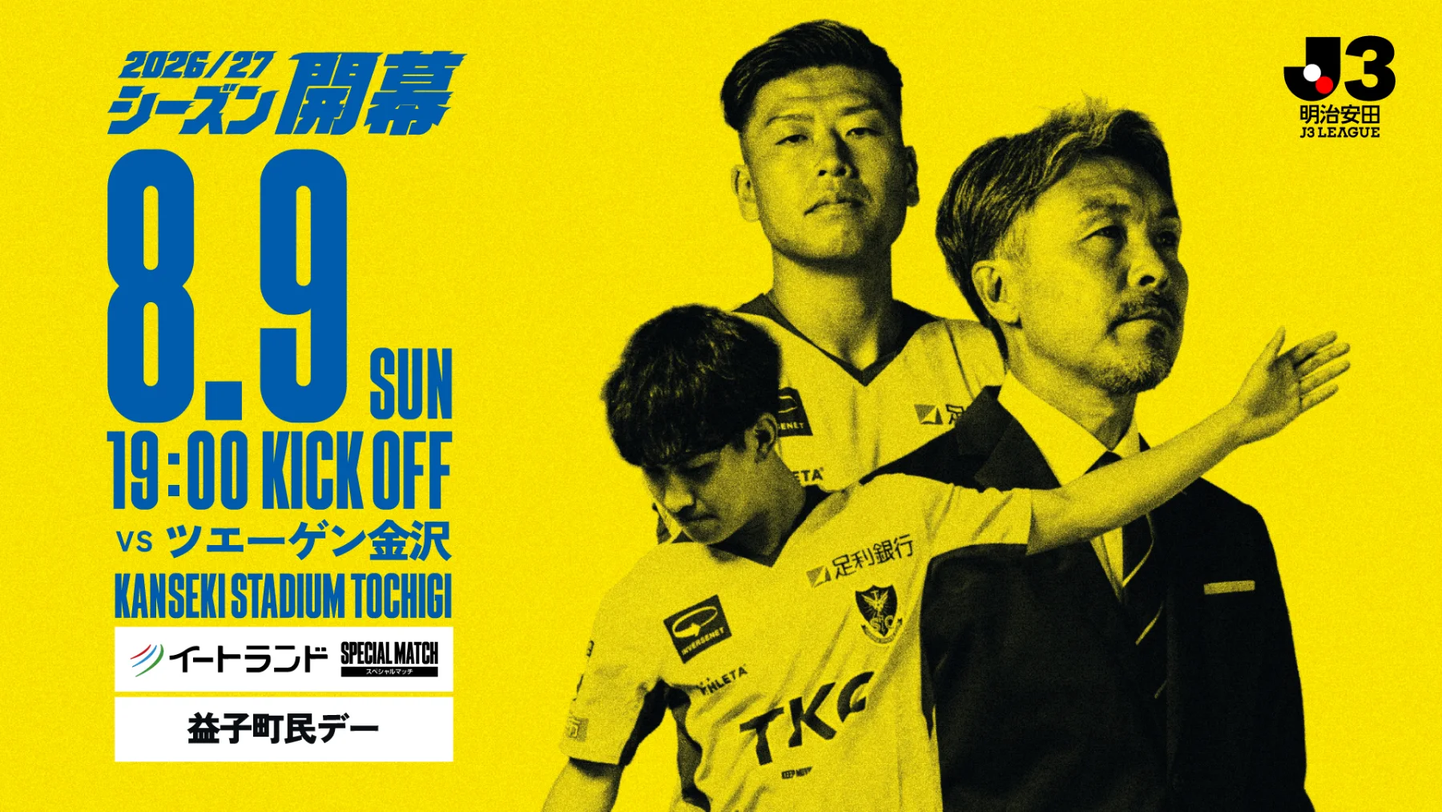
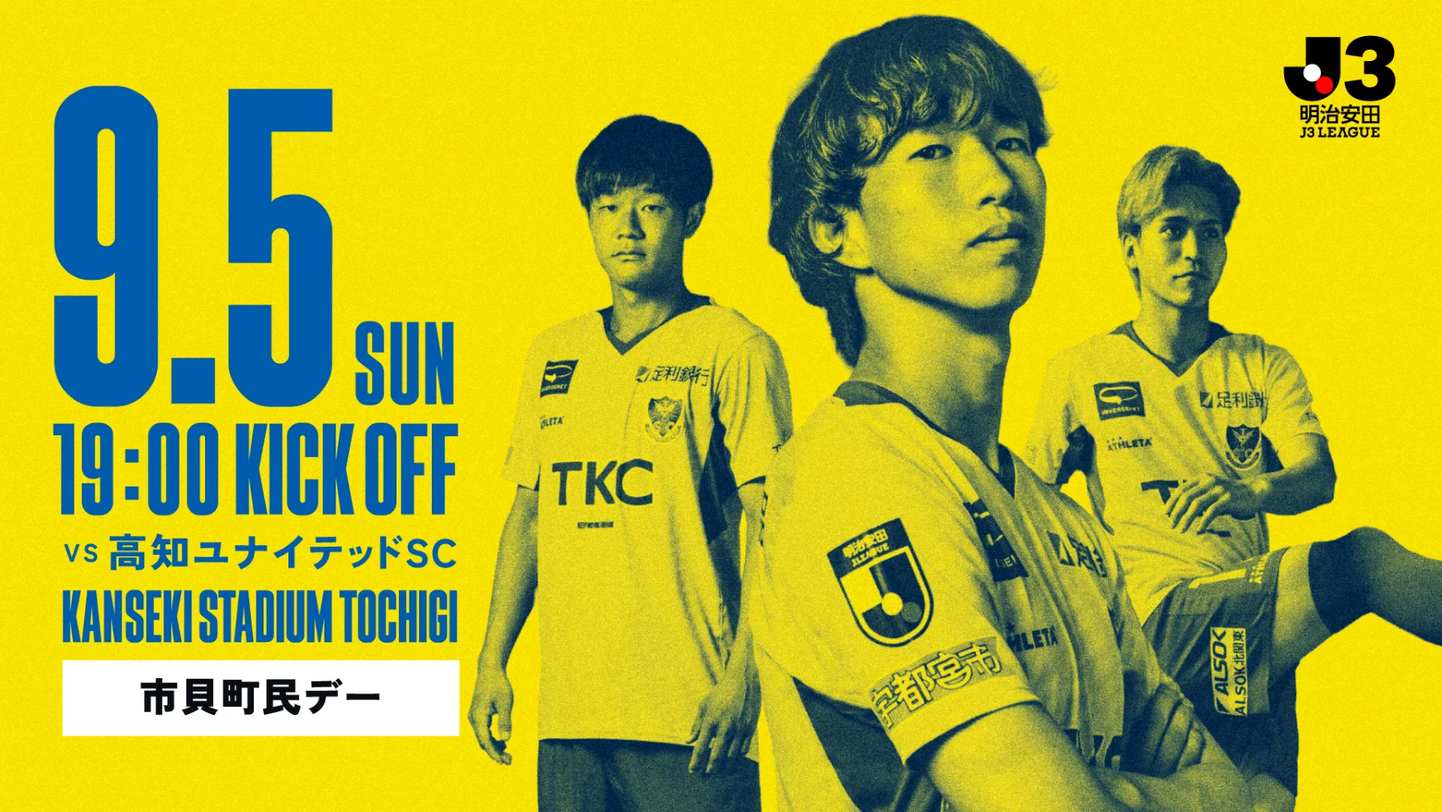
Add files via upload

diff --git a/check/index.html b/check/index.html
@@ -14,7 +14,7 @@ if(location.hostname.endsWith('github.io')){
 }
 </script>
 <meta name="viewport" content="width=device-width, initial-scale=1.0">
-<title>栃木SC ホームゲームLP ｜ 8/9 ツエーゲン金沢戦</title>
+<title>栃木SC ホームゲームLP ｜ 9/5 高知ユナイテッドSC戦</title>
 <link rel="icon" type="image/png" href="assets/img/favicon.png">
 <link rel="apple-touch-icon" href="assets/img/appleTouchIcon.png">
 <link rel="preconnect" href="https://fonts.googleapis.com">
@@ -526,14 +526,14 @@ if(location.hostname.endsWith('github.io')){
     <!-- MATCH CARD -->
   <div class="match">
     <div class="mt-meta">
-      <div class="mt-league">2026/27 明治安田J3リーグ 第1節</div>
+      <div class="mt-league">2026/27 明治安田J3リーグ 第5節</div>
       <div class="mt-ko">19:00 KICK OFF</div>
       <div class="mt-ven">カンセキスタジアムとちぎ</div>
     </div>
     <div class="teams">
       <div class="team"><div class="em" style="background-image:var(--tsc);background-size:116%;background-repeat:no-repeat;background-position:center"></div><div class="nm">栃木SC</div><div class="role">HOME</div></div>
       <div class="vs">VS</div>
-      <div class="team"><div class="em" style="background-image:var(--opp);background-size:contain;background-repeat:no-repeat;background-position:center"></div><div class="nm" style="white-space:nowrap;font-size:min(18px,calc((100vw - 87px)*0.0658))">ツエーゲン金沢</div><div class="role">VISITOR</div></div>
+      <div class="team"><div class="em" style="background-image:var(--opp);background-size:contain;background-repeat:no-repeat;background-position:center"></div><div class="nm" style="white-space:nowrap;font-size:min(18px,calc((100vw - 87px)*0.0500))">高知ユナイテッドSC</div><div class="role">VISITOR</div></div>
     </div>
   </div>
 
@@ -557,30 +557,24 @@ if(location.hostname.endsWith('github.io')){
   </div>
 
   <!-- スペシャルイベント -->
-  <section class="special band-white"><div class="head"><span class="hicon"><svg viewBox="0 0 24 24"><path d="M4 8h16v11a1 1 0 0 1-1 1H5a1 1 0 0 1-1-1z"/><path d="M4 8l2-4h12l2 4"/><path d="M9 12h6"/></svg></span><span class="disp">SPECIAL EVENT</span><h2><span class="mk">スペシャルイベント</span></h2></div><div class="sp-stack"><div class="sp-card"><div class="sp-photo np" data-lz style="background-image:url(assets/img/spPokemon.webp)"></div><div class="sp-body"><h3 class="sp-h">“ポケモンＪリーグフェス”開催決定！</h3><p class="sp-lead">EVO BAG（環境配慮型エコバッグ）を先着8,000名様にプレゼント！</p><p>8月9日（日）ツエーゲン金沢戦にて開催。ピカチュウとクラブパートナーポケモン「ゴウカザル」がデザインされたEVO BAGを、入場ゲートで先着8,000名様にプレゼントします。オリジナルグッズ販売やイベントも予定（決まり次第お知らせ）。</p><div class="sp-terms"><div><b>配布数量</b>：先着8,000個</div><div><b>配布対象</b>：観戦チケットをお持ちの方（ビジターゲート入場者を除く）</div><div><b>配布場所</b>：Aゲート・Cゲート（ビジターゲートを除く）</div></div><a class="sp-link" href="https://tochigisc.jp/news/1819" target="_blank" rel="noopener">詳細はこちら ›</a></div></div><div class="sp-card"><div class="sp-photo np" data-lz style="background-image:url(assets/img/spSub6.webp)"></div><div class="sp-body"><h3 class="sp-h">益子町抽選会を実施！</h3><p class="sp-lead">栃木ＳＣのグッズなどが当たる無料抽選会を実施します！</p><div class="sp-terms"><div><b>抽選券配布場所</b>：A・Cゲート</div><div><b>抽選券配布時間</b>：16:30～</div><div><b>抽選券配布枚数</b>：1,000枚（なくなり次第終了）</div><div><b>景品受取場所</b>：益子町ブース（アプローチデッキ）</div><div><b>景品受取時間</b>：ハーフタイムまで</div></div></div></div><div class="sp-card"><div class="sp-photo np" data-lz style="background-image:url(assets/img/sp_11.webp)"></div><div class="sp-body"><h3 class="sp-h">夏祭りグルメが盛りだくさん！</h3><p>夏祭りを楽しむのにぴったりなグルメが盛りだくさん！<br>
-食べて飲んで夏を楽しもう！</p><div class="sp-terms"><div><b>営業時間</b></div><div><b>場外エリア</b>：15:30～試合終了まで </div><div><b>場内エリア</b>：16:30～試合終了まで</div></div><a class="sp-link" href="<a href=“gourmet.html”>グルメ</a>" target="_blank" rel="noopener">詳細はこちら ›</a></div></div></div></section>
+  <section class="special band-white"><div class="head"><span class="hicon"><svg viewBox="0 0 24 24"><path d="M4 8h16v11a1 1 0 0 1-1 1H5a1 1 0 0 1-1-1z"/><path d="M4 8l2-4h12l2 4"/><path d="M9 12h6"/></svg></span><span class="disp">SPECIAL EVENT</span><h2><span class="mk">スペシャルイベント</span></h2></div><div class="sp-stack"><div class="sp-card"><div class="sp-photo np" data-lz style="background-image:url(assets/img/sp_13.webp)"></div><div class="sp-body"><h3 class="sp-h">「栃木ＳＣ夏祭り」開催！</h3><p>スタジアムが夏祭り会場に！友達や家族と一緒に、みんなで夏を楽しもう。<br>場所：カンセキスタジアム アプローチデッキ</p><div class="sp-terms"><div>時間：16:00～19:00<br>場所：アプローチデッキ</div></div><a class="sp-link" href="https://www.tochigisc.jp/news/1842" target="_blank" rel="noopener">詳細はこちら ›</a></div></div><div class="sp-card"><div class="sp-photo np" data-lz style="background-image:url(assets/img/sp_14.webp)"></div><div class="sp-body"><h3 class="sp-h">ハーフタイムを彩る「打ち上げ花火」！</h3><p class="sp-lead">時間：ハーフタイム<br>場所：スタジアム北西方面</p><p>「打ち上げ花火  Presented by 高徳花火工場」を実施！<br><br>スタジアムの観客席から見上げる花火は、この時期ならではの特別な体験となります！<br>夏の終わりの素敵なひとときをスタジアムでお楽しみください！</p></div></div><div class="sp-card"><div class="sp-photo np" data-lz style="background-image:url(assets/img/spSub1.webp)"></div><div class="sp-body"><h3 class="sp-h">スタミナグルメ</h3><p class="sp-lead">暑さに負けるな！</p><p>残暑が厳しい時季
+スタミナをつけて応援に備えよう！</p></div></div></div></section>
 
   <div class="sec-div" aria-hidden="true"></div>
     <!-- イベント -->
   <section class="band-sec band-white" id="event">
     <div class="head"><span class="hicon"><svg viewBox="0 0 24 24"><path d="M4 8h16v11a1 1 0 0 1-1 1H5a1 1 0 0 1-1-1z"/><path d="M4 8l2-4h12l2 4"/><path d="M9 12h6"/></svg></span><span class="disp">EVENT</span><h2><span class="mk">イベント</span></h2></div>
     
-    <div class="dots"><i class="on"></i><i></i><i></i><i></i><i></i><i></i><i></i></div>
-    <div class="rail"><div class="card"><div class="ph lb-img" data-lz style="background-image:url(assets/img/evNatsu.webp);background-size:contain;background-position:center;background-repeat:no-repeat;background-color:#fff"></div><div class="cb"><h4>「栃木ＳＣ夏祭り」開催！</h4><div class="meta">時間：16:00～19:00<br>場所：アプローチデッキ</div><div class="ev-desc">スタジアムが夏祭り会場に！友達や家族と一緒に、みんなで夏を楽しもう。<br>場所：カンセキスタジアム アプローチデッキ</div><a class="sp-link" href="https://www.tochigisc.jp/news/1842" target="_blank" rel="noopener">詳細はこちら ›</a></div></div><div class="card"><div class="ph lb-img" data-lz style="background-image:url(assets/img/evMizu.webp);background-size:contain;background-position:center;background-repeat:no-repeat;background-color:#fff"></div><div class="cb"><h4>「真夏のワクワク水鉄砲合戦」開催！</h4><div class="meta">時間：16:00〜17:00<br>場所：投てき場＜カンセキスタジアム隣接＞</div><div class="ev-desc">大人から子どもまで全力で楽しめる水鉄砲バトル！<br>場所：投てき場（カンセキスタジアム隣接）<br>※定員に達したため、申込終了となります。</div><a class="sp-link" href="https://www.tochigisc.jp/news/1830" target="_blank" rel="noopener">詳細はこちら ›</a></div></div><div class="card"><div class="ph lb-img" data-lz style="background-image:url(assets/img/evYosakoi.webp);background-size:contain;background-position:center;background-repeat:no-repeat;background-color:#fff"></div><div class="cb"><h4>オープニングパフォーマンス“勢や”</h4><div class="meta">時間：選手入場前 <br>場所：ピッチ</div><div class="ev-desc">YOSAKOIソーランチーム“勢や”がオープニングパフォーマンスをおこないます！<br>※時間・場所は急遽変更になる場合があります。</div></div></div><div class="card"><div class="ph lb-img" data-lz style="background-image:url(assets/img/ev_2.webp);background-size:contain;background-position:center;background-repeat:no-repeat;background-color:#fff"></div><div class="cb"><h4>DJ NECOパフォーマンス</h4><div class="meta">場所：スタジアム場内</div><div class="ev-desc">DJ NECOがパフォーマンスでスタジアムを盛り上げていただきます♩ぜひご注目ください！！！</div></div></div><div class="card"><div class="ph lb-img" data-lz style="background-image:url(assets/img/evSub8.webp);background-size:contain;background-position:center;background-repeat:no-repeat;background-color:#fff"></div><div class="cb"><h4>益子天人疾風の会太鼓演奏</h4><div class="meta">時間：17:00～17:20<br>場所：メイン側ピッチ<br> </div><div class="ev-desc">益子で活動する和太鼓団体「益子天人疾風の会（ましこてんじんかぜのかい）」によるパフォーマンスを披露！
-<br>
-<br>＜太鼓演奏も実施！＞
-<br>実施時間：16:00-16:30（集合：15:45益子町ブース）
-<br>実施場所：メインピッチ
-<br>内　　容：先着20名（益子町ブース）</div></div></div><div class="card"><div class="ph lb-img" data-lz style="background-image:url(assets/img/evSub7.webp);background-size:contain;background-position:center;background-repeat:no-repeat;background-color:#fff"></div><div class="cb"><h4>「陶芸の森 長谷川陶苑」てびねり体験ブース</h4><div class="meta">時間：16:00～19:00<br>場所：アプローチデッキ<br>人数：高校生以下先着20名※参加費無料<br>受付方法：15:30～より陶芸の森長谷川陶苑体験ブースにて先着申込</div><div class="ev-desc">粘土の固まりを好きな形に形成できます！置物や飾り品、ロクロでは作れない四角いお皿やカップ、さらには表札や貯金箱などにもチャレンジしよう！<br>※作品は窯元で焼き上げてからのお渡しになるので、約１ヵ月後にご自宅に郵送となります。<br><br>【協力】<br>陶芸の森　長谷川陶苑</div></div></div><div class="card"><div class="ph lb-img" data-lz style="background-image:url(assets/img/ev_12.webp);background-size:contain;background-position:center;background-repeat:no-repeat;background-color:#fff"></div><div class="cb"><h4>「Waibiブースイベント」開催！！</h4><div class="meta">時間：16:00～なくなり次第終了<br>場所：アプローチデッキ Waibiブース<br>※15:00～よりWaibiブースにて各整理券配布</div><div class="ev-desc"><br>
-≪大人気！カブトムシつかみ取り≫、≪サイン入りグッズくじ≫≪限定コラボグッズ販売≫など楽しいブースが盛りだくさん！！<br>盛り上がる夏を一緒に楽しもう！</div><a class="sp-link" href="https://www.tochigisc.jp/news/1882" target="_blank" rel="noopener">詳細はこちら ›</a></div></div></div>
+    
+    <div class="rail"></div>
   </section>
 
   <!-- グルメ -->
   <section class="band-sec band-soft" id="gourmet">
     <div class="head"><span class="hicon"><svg viewBox="0 0 24 24"><path d="M6 3v7a2 2 0 0 0 4 0V3M8 10v11"/><path d="M16 3c-1.5 0-2.5 2-2.5 4.5S14.5 12 16 12v9"/></svg></span><span class="disp">STADIUM GOURMET</span><h2><span class="mk">グルメ</span></h2><span class="subbrand">BISTRO TOCKEY</span></div>
     <div class="dots"><i class="on"></i><i></i><i></i><i></i></div>
-    <div class="rail"><div class="card"><div class="ph lb-img" data-lz style="background-image:url(assets/img/goKezu.webp);background-size:contain;background-position:center;background-repeat:no-repeat;background-color:#fff"></div><div class="cb"><h4>けずりん（フローズンフルーツ）</h4><div class="meta"><span class="shop">けずりん</span><span class="price">¥700</span><span class="desc">苺たっぷりのひんやりフローズンフルーツ。</span></div></div></div><div class="card"><div class="ph lb-img" data-lz style="background-image:url(assets/img/goDaji.webp);background-size:contain;background-position:center;background-repeat:no-repeat;background-color:#fff"></div><div class="cb"><h4>ダージーパイ</h4><div class="meta"><span class="shop">O.N.Y</span><span class="price">¥750</span><span class="desc">サクサク食感の特大フライドチキン。</span></div></div></div><div class="card"><div class="ph lb-img" data-lz style="background-image:url(assets/img/goTapi.webp);background-size:contain;background-position:center;background-repeat:no-repeat;background-color:#fff"></div><div class="cb"><h4>タピオカドリンク</h4><div class="meta"><span class="shop">会茶</span><span class="price">¥750</span><span class="desc">もちもちタピオカ入りドリンク。</span></div></div></div><div class="card"><div class="ph lb-img" data-lz style="background-image:url(assets/img/goTama.webp);background-size:contain;background-position:center;background-repeat:no-repeat;background-color:#fff"></div><div class="cb"><h4>玉子焼き</h4><div class="meta"><span class="shop">玉子屋てっちゃん</span><span class="price">¥700</span><span class="desc">ふんわり焼き上げた玉子焼き。</span></div></div></div></div>
-    <div class="sec-news"><p class="sn-lead">当日のグルメ情報満載！</p><a href="<a href=“gourmet.html”>グルメ</a>" target="_blank" rel="noopener">グルメ情報をもっと見る <span class="arw">›</span></a></div>
+    <div class="rail"><div class="card"><div class="ph lb-img" data-lz style="background-image:url(assets/img/goSub2.webp);background-size:contain;background-position:center;background-repeat:no-repeat;background-color:#fff"></div><div class="cb"><h4>ブラジル丼</h4><div class="meta"><span class="shop">ダネイデ</span><span class="price">¥1,000</span><span class="desc">チキンカツ、牛ステーキ、ブラジリアンソーセージが乗っていてボリューム満点！</span></div></div></div><div class="card"><div class="ph lb-img" data-lz style="background-image:url(assets/img/goSub3.webp);background-size:contain;background-position:center;background-repeat:no-repeat;background-color:#fff"></div><div class="cb"><h4>ネギ塩炙りチャーシュー丼</h4><div class="meta"><span class="shop">菊ちゃんラーメン</span><span class="price">¥1,090</span><span class="desc">ネギ塩の香り最高なメニュー！  ご飯・炙りチャーシュー・ネギ塩のハットトリックで胃袋にナイスゴール！</span></div></div></div><div class="card"><div class="ph lb-img" data-lz style="background-image:url(assets/img/goSub4.webp);background-size:contain;background-position:center;background-repeat:no-repeat;background-color:#fff"></div><div class="cb"><h4>栃木県産ヤシオポーク丼</h4><div class="meta"><span class="shop">ドリームソウル</span><span class="price">¥1,000</span><span class="desc">栃木県産ヤシオポークを使い、栃木県民の食べなれた味のソースで仕上げました！！</span></div></div></div><div class="card"><div class="ph lb-img" data-lz style="background-image:url(assets/img/goSub5.webp);background-size:contain;background-position:center;background-repeat:no-repeat;background-color:#fff"></div><div class="cb"><h4>塩ダレから揚げ</h4><div class="meta"><span class="shop">からあげかずちゃんち</span><span class="price">¥756</span><span class="desc">スタミナにんにく増し増しのゆず風味！</span></div></div></div></div>
+    
   </section>
 
 
@@ -635,12 +629,12 @@ if(location.hostname.endsWith('github.io')){
       <button class="access-tab" data-acc="train"><svg viewBox="0 0 24 24"><rect x="6" y="3" width="12" height="14" rx="2"/><path d="M6 11h12"/><circle cx="9" cy="14" r="1"/><circle cx="15" cy="14" r="1"/><path d="M8 21l2-3M16 21l-2-3"/></svg>電車・徒歩</button>
     </div>
     <div class="access-panel" data-panel="car">
-      <ul class="apts"><li><b>東北道 鹿沼IC</b>から約15分（さつきロード経由）</li><li><b>北関東道 壬生IC</b>から約20分／<b>宇都宮上三川IC</b>から約15分</li><li><b>駐車場</b>：南第1・第2（公園南側）／南管理用（公園西側）／北第3（公園北側）｜<b>2時間まで無料</b></li>
+      <ul class="apts"><li><b>東北道 鹿沼IC</b>から約15分（さつきロード経由）</li><li><b>北関東道 壬生IC</b>から約20分／<b>宇都宮上三川IC</b>から約15分</li><li><b>駐車場</b>：南第1・第2（公園南側）／西・南管理用（公園西側）／北第3（公園北側）｜<b>2時間まで無料</b></li>
       <li><b>精算</b>：現金（千円札・硬貨）／クレジットカード／交通系ほか電子マネー</li>
-      <li><b>北第1・北第2駐車場（予約制）</b>｜スタジアム目の前・栃木SC販売・事前予約で当日スムーズ｜1台 <b>¥2,500</b><br><span class="pk-sale">7/16(木) 12:00〜 CLUB.T会員先行販売</span></li><li><b>西駐車場（予約制）</b>｜栃木SC販売・事前予約で当日スムーズ｜1台 <b>¥2,000</b></li><li><b>akippa 予約制</b>（約500台)｜事前予約で当日スムーズ</li></ul>
+      <li><b>北第1・北第2駐車場（予約制）</b>｜スタジアム目の前・栃木SC販売・事前予約で当日スムーズ｜1台 <b>¥2,000</b><br><span class="pk-sale">8/13(木) 12:00〜 CLUB.T会員先行販売</span></li><li><b>akippa 予約制</b>（約500台)｜事前予約で当日スムーズ</li></ul>
       <p class="apnote">※2千円・5千円・1万円札は使用不可／他イベント開催時は満車の場合あり／近隣商業施設への駐車はご遠慮ください／駐車券を紛失した場合：0120-553-350</p>
       
-      <div class="alinks"><a href="https://www.jleague-ticket.jp/club/ts/" target="_blank" rel="noopener">北・西駐車場を予約する ›</a><a href="https://www.akippa.com/tochigisc/" target="_blank" rel="noopener">akippaで予約する ›</a></div>
+      <div class="alinks"><a href="https://www.jleague-ticket.jp/club/ts/" target="_blank" rel="noopener">北駐車場を予約する ›</a><a href="https://www.akippa.com/tochigisc/" target="_blank" rel="noopener">akippaで予約する ›</a></div>
     </div>
     <div class="access-panel" data-panel="shuttle" hidden>
       <ul class="apts"><li><b>往路</b>：JR雀宮駅 東口のりば → スタジアム（約10分）</li><li><b>復路</b>：スタジアム バスベイ乗り場（アプローチデッキ南側）→ 雀宮駅</li><li><b>運賃</b>：往復500円／片道300円（高校生以下無料・学生証提示）</li></ul>
@@ -661,7 +655,7 @@ if(location.hostname.endsWith('github.io')){
     <div class="navy-ov"></div>
     <div class="in">
       <h3>チケットを購入する</h3>
-      <p>8.9(日) 19:00 KICK OFF ／ ツエーゲン金沢戦</p><div class="tk-sale"><span class="tk-sale-h">チケット販売開始</span><span class="tk-sale-d">7/16（CLUB.T会員先行）・7/18（一般）｜各 12:00〜</span></div><div class="pt-h">チケット料金（1試合）</div><div class="pt-flex">この試合は <b>★★★プライス</b>（開幕戦）</div><div class="ptbl-scroll"><table class="ptbl"><thead><tr><th rowspan="2">席種</th><th colspan="2">前売</th><th colspan="2" class="g">当日</th></tr><tr><th>小中高</th><th>大人</th><th class="g">小中高</th><th>大人</th></tr></thead><tbody><tr><td>メインSS指定席</td><td colspan="2">¥5,700</td><td colspan="2" class="g">¥6,200</td></tr><tr><td>メインS指定席</td><td>¥2,100</td><td>¥4,800</td><td class="g">¥2,600</td><td>¥5,300</td></tr><tr><td>メインS自由席</td><td>¥2,000</td><td>¥4,300</td><td class="g">¥2,500</td><td>¥4,800</td></tr><tr><td>バック自由席</td><td>¥1,800</td><td>¥3,700</td><td class="g">¥2,300</td><td>¥4,200</td></tr><tr><td>ホームゴール裏自由席</td><td>¥1,200</td><td>¥2,700</td><td class="g">¥1,700</td><td>¥3,200</td></tr><tr><td>ビジターゴール裏自由席</td><td>¥1,200</td><td>¥2,700</td><td class="g">¥1,700</td><td>¥3,200</td></tr><tr><td>パノラマシート</td><td>¥2,100</td><td>¥4,800</td><td class="g">¥2,600</td><td>¥5,300</td></tr><tr><td>パーティーシート</td><td colspan="2">¥19,200</td><td colspan="2" class="g">¥21,200</td></tr><tr><td>テーブル席</td><td colspan="2">¥6,500</td><td colspan="2" class="g">¥7,000</td></tr><tr><td>車椅子席</td><td>¥2,100</td><td>¥4,800</td><td class="g">¥2,600</td><td>¥5,300</td></tr></tbody></table></div><div class="pt-note">※ 料金は試合により3段階で変動（フレックスプライス）。この試合は<b>★★★</b>。テーブル・メインSS指定・パーティーは全年齢共通料金。ホーム／ビジターゴール裏は学割（当日¥2,300）あり。<b>CLUB.T会員はさらにお得な会員価格</b>があります。<br><a href="https://www.tochigisc.jp/ticket/" target="_blank" rel="noopener">詳しい料金・購入方法（公式）›</a></div>
+      <p>9.5(土) 19:00 KICK OFF ／ 高知ユナイテッドSC戦</p><div class="tk-sale"><span class="tk-sale-h">チケット販売開始</span><span class="tk-sale-d">8/13（CLUB.T会員先行）・8/15（一般）｜各 12:00〜</span></div><div class="pt-h">チケット料金（1試合）</div><div class="pt-flex">この試合は <b>★★プライス</b></div><div class="ptbl-scroll"><table class="ptbl"><thead><tr><th rowspan="2">席種</th><th colspan="2">前売</th><th colspan="2" class="g">当日</th></tr><tr><th>小中高</th><th>大人</th><th class="g">小中高</th><th>大人</th></tr></thead><tbody><tr><td>メインSS指定席</td><td colspan="2">¥4,700</td><td colspan="2" class="g">¥5,200</td></tr><tr><td>メインS指定席</td><td>¥1,800</td><td>¥4,000</td><td class="g">¥2,300</td><td>¥4,500</td></tr><tr><td>メインS自由席</td><td>¥1,700</td><td>¥3,500</td><td class="g">¥2,200</td><td>¥4,000</td></tr><tr><td>バック自由席</td><td>¥1,500</td><td>¥3,000</td><td class="g">¥2,000</td><td>¥3,500</td></tr><tr><td>ホームゴール裏自由席</td><td>¥900</td><td>¥2,300</td><td class="g">¥1,400</td><td>¥2,800</td></tr><tr><td>ビジターゴール裏自由席</td><td>¥900</td><td>¥2,300</td><td class="g">¥1,400</td><td>¥2,800</td></tr><tr><td>パノラマシート</td><td>¥1,800</td><td>¥4,000</td><td class="g">¥2,300</td><td>¥4,500</td></tr><tr><td>パーティーシート</td><td colspan="2">¥16,000</td><td colspan="2" class="g">¥18,000</td></tr><tr><td>テーブル席</td><td colspan="2">¥5,500</td><td colspan="2" class="g">¥6,000</td></tr><tr><td>車椅子席</td><td>¥1,800</td><td>¥4,000</td><td class="g">¥2,300</td><td>¥4,500</td></tr></tbody></table></div><div class="pt-note">※ 料金は試合により3段階で変動（フレックスプライス）。この試合は<b>★★</b>。テーブル・メインSS指定・パーティーは全年齢共通料金。ホーム／ビジターゴール裏は学割（当日¥1,900）あり。<b>CLUB.T会員はさらにお得な会員価格</b>があります。<br><a href="https://www.tochigisc.jp/ticket/" target="_blank" rel="noopener">詳しい料金・購入方法（公式）›</a></div>
       <a class="buy" href="https://www.jleague-ticket.jp/club/ts/" target="_blank" rel="noopener"><span>Jリーグチケットで購入</span><span class="arw">›</span></a><div class="tk-method">セブン-イレブン店頭でも購入可（チケットぴあ Pコード <b>592-970</b>）</div>
       <div class="note">※Jリーグチケットの購入にはJリーグIDが必要（前売がお得）。※当日券売場では<b>指定席の販売はありません</b>（指定席は事前購入を）。※駆け込みチケット：前半35分以降、当日券価格の<b>半額</b>で販売。</div>
     </div>
@@ -674,9 +668,9 @@ if(location.hostname.endsWith('github.io')){
   <!-- グッズ（売り場ゾーン） -->
   <section class="band-sec zone" id="goods">
     <div class="head"><span class="hicon"><svg viewBox="0 0 24 24"><path d="M6 8h12l-1 12H7z"/><path d="M9 8a3 3 0 0 1 6 0"/></svg></span><span class="disp">GOODS</span><h2><span class="mk">グッズ</span></h2></div>
-    <div class="dots"><i class="on"></i><i></i><i></i><i></i><i></i></div>
-        <div class="rail"><div class="card"><div class="ph lb-img" data-lz style="background-image:url(assets/img/gUni.webp);background-size:contain;background-position:center;background-repeat:no-repeat;background-color:#000"></div><div class="cb"><span class="tag y">NEW</span><h4>レプリカユニフォーム</h4><div class="meta"><span class="shop">2026/27シーズン</span><span class="price">¥17,600</span><span class="desc">2026/27シーズンの新デザイン・レプリカユニフォーム。</span></div></div></div><div class="card"><div class="ph lb-img" data-lz style="background-image:url(assets/img/gKey.webp);background-size:contain;background-position:center;background-repeat:no-repeat;background-color:#fff"></div><div class="cb"><span class="tag y">NEW</span><h4>おなまえアクリルキーホルダー</h4><div class="meta"><span class="shop">ガチャ（ランダム）</span><span class="price">¥400</span><span class="desc">選手のおなまえ入りアクリルキーホルダー。ガチャで登場。</span></div></div></div><div class="card"><div class="ph lb-img" data-lz style="background-image:url(assets/img/gPen.webp);background-size:contain;background-position:center;background-repeat:no-repeat;background-color:#fff"></div><div class="cb"><span class="tag y">NEW</span><h4>カラーチェンジペンライト</h4><div class="meta"><span class="shop">カラーチェンジ式</span><span class="price">¥2,420</span><span class="desc">色が切り替わる応援用ペンライト。</span></div></div></div><div class="card"><div class="ph lb-img" data-lz style="background-image:url(assets/img/gSeal.webp);background-size:contain;background-position:center;background-repeat:no-repeat;background-color:#fff"></div><div class="cb"><span class="tag y">NEW</span><h4>ぷっくりクリアシール</h4><div class="meta"><span class="shop">ぷっくり仕様</span><span class="price">¥715</span><span class="desc">トッキーのぷっくりクリアシール。</span></div></div></div><div class="card"><div class="ph lb-img" data-lz style="background-image:url(assets/img/gTowel.webp);background-size:contain;background-position:center;background-repeat:no-repeat;background-color:#fff"></div><div class="cb"><span class="tag y">NEW</span><h4>選手名クールタオル</h4><div class="meta"><span class="shop">選手名入り</span><span class="price">¥2,915</span><span class="desc">ひんやり感のある選手名クールタオル。</span></div></div></div></div>
-    <div class="sec-news"><p class="sn-lead">新商品続々登場！</p><a href="<a href=“goods.html”>グッズ</a>" target="_blank" rel="noopener">グッズ情報をもっと見る <span class="arw">›</span></a></div>
+    <div class="dots"><i class="on"></i><i></i><i></i><i></i></div>
+        <div class="rail"><div class="card"><div class="ph lb-img" data-lz style="background-image:url(assets/img/gdSub6.webp);background-size:contain;background-position:center;background-repeat:no-repeat;background-color:#000"></div><div class="cb"><span class="tag y">NEW</span><h4>レプリカユニフォーム</h4><div class="meta"><span class="shop">2026/27シーズン</span><span class="price">¥17,600</span><span class="desc">2026/27シーズンの新デザイン・レプリカユニフォーム。</span></div></div></div><div class="card"><div class="ph lb-img" data-lz style="background-image:url(assets/img/gdSub7.webp);background-size:contain;background-position:center;background-repeat:no-repeat;background-color:#fff"></div><div class="cb"><span class="tag y">NEW</span><h4>NEWHATTANキャップ</h4><div class="meta"><span class="shop"> カーキ、ネイビー、ブルーグレー</span><span class="price">¥3,410</span><span class="desc">シンプルで使いやすく、観戦から普段のコーディネートまで幅広く活躍します。</span></div></div></div><div class="card"><div class="ph lb-img" data-lz style="background-image:url(assets/img/gdSub9.webp);background-size:contain;background-position:center;background-repeat:no-repeat;background-color:#fff"></div><div class="cb"><span class="tag y">NEW</span><h4>ラインリブシャツ</h4><div class="meta"><span class="shop">M,L,XL</span><span class="price">¥3,520</span><span class="desc"> 襟元と袖口のラインリブがアクセントとなり、スポーティーさとカジュアルさを兼ね備えた一着です。</span></div></div></div><div class="card"><div class="ph lb-img" data-lz style="background-image:url(assets/img/gdSub8.webp);background-size:contain;background-position:center;background-repeat:no-repeat;background-color:#fff"></div><div class="cb"><h4>ミニ色紙</h4><div class="meta"><span class="shop">全選手展開/選手を選んで購入可能</span><span class="price">¥880</span><span class="desc">選手の顔写真入りデザインで、サインをもらうのにぴったりのアイテム。練習見学やファンサービスの記念としてはもちろん、コレクションにもおすすめ。</span></div></div></div></div>
+    
 
     </section>
 
